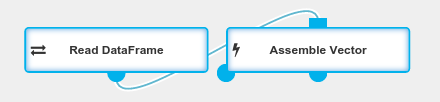
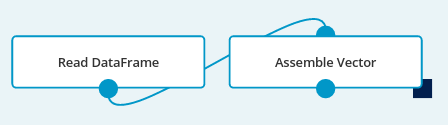
SHR-1005 SHR-1015 Update content to reflect 1.4.0
Both images and text were changed for wine properties example.

Changed region(s): [[0.0, 0.0882, 0.975, 0.8824], [0.5909, 0.4412, 0.8568, 0.5588]]

diff --git a/docs/_casestudies/wine_properties.md b/docs/_casestudies/wine_properties.md
@@ -10,37 +10,56 @@ description: Wine Properties
 
 **Dataset size**: 1,599 rows; 12 columns (11 numerical columns, 1 integer column).
 
-**Datasets description**: The dataset contains a description of a set of wines. Each wine is described by a set of 11 features based on physicochemical tests like density or pH. Additionally to that, each type of wine has a score that describes the wine’s quality. The score is based on sensory data (median of at least 3 evaluations made by wine experts). Each expert graded the wine quality between 0 (very bad) and 10 (excellent).
+**Datasets description**: The dataset contains a description of a set of wines.
+Each wine is described by a set of 11 features based on physicochemical tests like density or pH.
+Additionally to that, each type of wine has a score that describes the wine’s quality.
+The score is based on sensory data (median of at least 3 evaluations made by wine experts).
+Each expert graded the wine quality between 0 (very bad) and 10 (excellent).
 
-**Business purpose**: finding important features of wines that define wine quality as perceived by tasters.
+**Business purpose**: Finding important features of wines that define wine quality as perceived by tasters.
 
 **Data set credits**: Paulo Cortez, University of Minho, Guimarães, Portugal, <http://www3.dsi.uminho.pt/pcortez>
 A. Cerdeira, F. Almeida, T. Matos and J. Reis, Viticulture Commission of the Vinho Verde Region(CVRVV), Porto, Portugal 2009.
 Lichman, M. (2013).
 
 
-UCI Machine Learning Repository <http://archive.ics.uci.edu/ml>. Irvine, CA: University of California, School of Information and Computer Science.
+UCI Machine Learning Repository <http://archive.ics.uci.edu/ml>.
+Irvine, CA: University of California, School of Information and Computer Science.
 
 ## Step-by-step Workflow Creation
 
 ### Reading the Data
 
-The data is provided in the form of a 12-column, semicolon-separated CSV-like file. The first row consists of column names. To work with the dataset, it has to be loaded into Seahorse. This can be done by [Read DataFrame](../operations/read_dataframe.html) operation. Let’s place it on the canvas. To load the data, besides providing the correct path to the file, it is necessary to change the separator parameter to semicolon.
+The data is provided in the form of a 12-column, semicolon-separated CSV-like file.
+The first row consists of column names.
+To work with the dataset, it has to be loaded into Seahorse.
+This can be done by [Read DataFrame](../operations/read_dataframe.html) operation.
+Let’s place it on the canvas and create a new Data Source.
+To load the data, besides providing the correct path to the file,
+it is necessary to set the separator parameter to semicolon.
 
 <img class="bordered-image centered-image img-responsive spacer" src="../img/usecases/wine_properties/image_0.png">
 
-After setting Read DataFrame’s parameters to the correct values, the operation is ready to execute. When the execution ends, a report of the operation will be available. Let’s click on the output port to see it.
+After setting Read DataFrame’s parameters to the correct values, the operation is ready to execute.
+When the execution ends, a report of the operation will be available.
+Let’s click on the output port to see it.
 
 <img class="centered-image img-responsive spacer" src="../img/usecases/wine_properties/image_1.png">
 
-Now, we can explore the data a bit. The report included 20 sample rows.  As we can see, each wine is described by a set of 11 numerical features and an ordinal score based on sensory data (column **quality**) that describes wine’s quality.
+Now, we can explore the data a bit.
+The report included 20 sample rows.
+As we can see, each wine is described by a set of 11 numerical features
+and an ordinal score based on sensory data (column **quality**) that describes wine’s quality.
 
-Moreover, you can see distributions of values for each column. Click on a column’s header to see the distribution diagram, minimum value, maximum value, mean value and how many values are missing.
+Moreover, you can see distributions of values for each column.
+Click on an icon in column’s header to see
+the distribution diagram, minimum value, maximum value, mean value and how many values are missing.
 
 <img class="centered-image img-responsive spacer" src="../img/usecases/wine_properties/image_2.png">
 
 
-After some exploration we can see that no value is missing. Minimum values, mean values and maximum values summarizes the table below:
+After some exploration we can see that no value is missing.
+Minimum values, mean values and maximum values summarizes the table below:
 
 <table>
   <thead>
@@ -141,33 +160,81 @@ After some exploration we can see that no value is missing. Minimum values, mean
 
 ### The Objective
 
-Now, we will try to investigate which features of wine have significant impact on the quality. There are many different ways of achieving this. One of the possibilities is to fit a regression model to the data. For example, we could use a [Linear Regression](../operations/linear_regression.html) or a [Random Forest Regression](../operations/random_forest_regression.html). The first one exposes features weights that signify whether the feature has a positive or a negative impact (and how big the impact is) on the overall estimated value. Random Forest Regression exposes only importances of features, that help to determine whether the impact on the estimated value is high or low. Although, while it is not necessarily a rule, in many practical applications Random Forest Regression outperforms Linear Regression. Because of that we’ll choose Random Forest Regression.
+Now, we will try to investigate which features of wine have significant impact on the quality.
+There are many different ways of achieving this.
+One of the possibilities is to fit a regression model to the data.
+For example, we could use a [Linear Regression](../operations/linear_regression.html)
+or a [Random Forest Regression](../operations/random_forest_regression.html).
+The first one exposes features weights that signify
+whether the feature has a positive or a negative impact (and how big the impact is)
+on the overall estimated value.
+Random Forest Regression exposes only importances of features,
+that help to determine whether the impact on the estimated value is high or low.
+Although, while it is not necessarily a rule,
+in many practical applications Random Forest Regression outperforms Linear Regression.
+Because of that we’ll choose Random Forest Regression.
 
 ### Preparation and Feature Comparison Prerequisites
 
-Before we can train the Random Forest Regression to find out feature importance, we need to prepare the data. Some of Seahorse’s algorithms operate on columns that contain a vector of features (instead of a set of columns with one value each). The regression is one of them and before we use it, we need to combine 11 feature columns to one column that contains a vector of the features. We’ll do this using an [Assemble Vector](../operations/assemble_vector.html) operation.
+Before we can train the Random Forest Regression to find out feature importance,
+we need to prepare the data.
+Some of Seahorse’s algorithms operate on columns that contain a vector of features
+(instead of a set of columns with one value each).
+The regression is one of them and before we use it,
+we need to combine 11 feature columns to one column that contains a vector of the features.
+We’ll do this using an [Assemble Vector](../operations/assemble_vector.html) operation.
 
 Let’s put the Assemble Vector operation on the canvas and connect it as follows:
 
 <img class="centered-image img-responsive spacer" src="../img/usecases/wine_properties/image_3.png">
 
-The next step is to set parameters to the two operations. In the Assemble Vector operation we have to select the columns to be grouped and the output column’s name. We want to select wine features excluding quality, that is columns from 0 to 10. Let’s call the vectorized output column "features".
+The next step is to set parameters to the two operations.
+In the Assemble Vector operation we have
+to select the columns to be groupedand the output column’s name.
+We want to select wine features excluding quality, that is columns from 0 to 10.
+Let’s call the vectorized output column "features".
 
 <img class="bordered-image centered-image img-responsive spacer"  src="../img/usecases/wine_properties/image_4.png">
 
 ### Parameters of Training Process
 
-The Assemble Vector’s output [DataFrame](../classes/dataframe.html) has a format that the regression can work on - we are now ready to start playing with the regression. The regression allows to predict one column’s value basing on other columns’ values. In our case, you will want to create a Random Forest Regression model that predicts the quality of wine based on the value of **features** column. Then, we will take a look at the model to see how important each feature is.
+The Assemble Vector’s output [DataFrame](../classes/dataframe.html)
+has a format that the regression can work on - we are now ready to start playing with the regression.
+The regression allows to predict one column’s value basing on other columns’ values.
+In our case, you will want to create a Random Forest Regression model
+that predicts the quality of wine based on the value of **features** column.
+Then, we will take a look at the model to see how important each feature is.
 
-To create a model, we have to use [Fit](../operations/fit.html) operation. Random Forest Regression has many parameters that affect its behavior. It is not a trivial task to find the best values of parameters. Usually, it is done experimentally. Advanced knowledge about the Random Forest Regression algorithm is required. To overcome this issue, we’ll use a [Grid Search](../operations/grid_search.html) operation and let another algorithm find the best values for us. To use the Grid Search operation we define value sets for each parameter of a model. The Grid Search will fit as many models as there are combinations of the parameters. Later, it evaluates prediction correctness (using an [Evaluator](../classes/evaluator.html)) of all models. Finally, we end up with a report that summarizes Grid Search results and shows the best combination of parameters.
+To create a model, we have to use [Fit](../operations/fit.html) operation.
+Random Forest Regression has many parameters that affect its behavior.
+It is not a trivial task to find the best values of parameters. Usually, it is done experimentally.
+Advanced knowledge about the Random Forest Regression algorithm is required.
+To overcome this issue, we’ll use a [Grid Search](../operations/grid_search.html) operation
+and let another algorithm find the best values for us.
+To use the Grid Search operation we define value sets for each parameter of a model.
+The Grid Search will fit as many models as there are combinations of the parameters.
+Later, it evaluates prediction correctness
+(using an [Evaluator](../classes/evaluator.html)) of all models.
+Finally, we end up with
+a report that summarizes Grid Search results and shows the best combination of parameters.
 
-Place the Grid Search operation on the canvas. It has 3 inputs. To the first one, we’ll connect the first output port from the Assemble Vector operation, as we want to feed the Grid Search with the DataFrame that the Assemble Vector operation produces. To the second port we’ll connect the Random Forest Regression - let’s place it on the canvas. To the last port we need to connect an Evaluator - place a [Regression Evaluator](../operations/regression_evaluator.html) on the canvas and connect it with the Grid Search.
+Place the Grid Search operation on the canvas.
+It has 3 inputs.
+To the middle one, we’ll connect the first output port from the Assemble Vector operation,
+as we want to feed the Grid Search with the DataFrame that the Assemble Vector operation produces.
+To the left-hand port we’ll connect the Random Forest Regression - let’s place it on the canvas.
+To the right-hand port we need to connect an Evaluator - place
+a [Regression Evaluator](../operations/regression_evaluator.html) on the canvas
+and connect it with the Grid Search.
 
-A Regression Evaluator is capable of evaluating predictions made by a Regression. The evaluation is done using a certain metric. We’ll use RMSE (Root-Mean-Square Error), as it is the simplest to interpret.
+A Regression Evaluator is capable of evaluating predictions made by a Regression.
+The evaluation is done using a certain metric.
+We’ll use RMSE (Root-Mean-Square Error), as it is the simplest to interpret.
 
 <img class="centered-image img-responsive spacer"  src="../img/usecases/wine_properties/image_5.png">
 
-Grid Search operation’s parameters combine the parameters from its input Regressor and Evaluator. In the parameters panel, scroll down to the parameters of the input estimator and set their values to:
+Grid Search operation’s parameters combine the parameters from its input Regressor and Evaluator.
+In the parameters panel, set values of parameters of the input estimator to:
 
 * `max depth`: `10, 20, 30`,
 
@@ -187,24 +254,46 @@ Grid Search operation’s parameters combine the parameters from its input Regre
 </table>
 
 
-Using these value sets, we define 27 models (3 x 3 x 3) that need to be trained and then evaluated. The last thing we need to set in the Grid Search operation are the `features column` and the `label column`. The former specifies which column contains the predictors (i.e. the features on which our prediction will be based on). We’ll set this parameter to `features`. The latter specifies the column containing true values of our predicted variable, for training purposes. We’ll set this to `quality`.
+Using these value sets, we define 27 models (3 x 3 x 3) that need to be trained and then evaluated.
+The last thing we need to set in the Grid Search operation
+are the `features column` and the `label column`.
+The former specifies which column contains the predictors
+(i.e. the features on which our prediction will be based on).
+We’ll set this parameter to `features`.
+The latter specifies the column
+containing true values of our predicted variable, for training purposes.
+We’ll set this to `quality`.
 
-Finally, leave other parameters with the default values and execute the workflow. As we mentioned, 27 models have to be trained and evaluated (twice, because of cross-validation) so the execution can take a couple of minutes. Afterwards, we can read parameters that got the best score. They can be read from Grid Search’s report.
+Finally, leave other parameters with the default values and execute the workflow.
+As we mentioned, 27 models have to be trained and evaluated (twice, because of cross-validation)
+so the execution can take a couple of minutes.
+Afterwards, we can read parameters that got the best score.
+They can be read from Grid Search’s report.
 <img class="centered-image img-responsive spacer"  src="../img/usecases/wine_properties/image_6.png">
 
 In our case the best parameters found are:
 
-* `max depth`: `20`,
-
 * `max bins`: `40`,
+
+* `max depth`: `30`,
 
 * `num trees`: `100`.
 
-As we can see, none of the parameters (except number of trees) lays on the edge of the grid. We could increase number of trees because, generally for the Random Forest Regression, the more trees, the more accurate the results of regression. However, differences between 50 and 100 trees are rather small and further increase of the number of trees won’t have a significant impact on the quality. Moreover, computation time grows with the number of trees. We are going to use 100 trees in the Random Forest Regression as it’s a good compromise between accuracy and execution time.
+As we can see, none of the parameters (except number of trees) lays on the edge of the grid.
+We could increase number of trees because, generally for the Random Forest Regression,
+the more trees, the more accurate the results of regression.
+However, differences between 50 and 100 trees are rather small
+and further increase of the number of trees won’t have a significant impact on the quality.
+Moreover, computation time grows with the number of trees.
+We are going to use 100 trees in the Random Forest Regression
+as it’s a good compromise between accuracy and execution time.
 
 ### Training
 
-Since we now know the best parameter values, we can use the Fit operation to train a Random Forest Regression model. Edit Fit’s parameters according to the report generated by the Grid Search, i.e. copy the best parameter values to the Fit operation. Then, select `features` as the `features column` and `quality` as the `label column`. Finally, execute the Fit operation.
+Since we now know the best parameter values
+we can use the Fit operation to train a Random Forest Regression model.
+Edit Fit’s parameters according to the report generated by the Grid Search,
+i.e. copy the best parameter values to the Fit operation. Then, select `features` as the `features column` and `quality` as the `label column`. Finally, execute the Fit operation.
 
 <img class="centered-image img-responsive spacer"  src="../img/usecases/wine_properties/image_7.png">
 
@@ -268,6 +357,20 @@ Fit returns a trained model. In the model’s report we can inspect the feature 
 
 ## Conclusion
 
-We’ve researched how important each feature of wine is for estimating its perceived quality. It turned out, that the two most important features are alcohol and sulphates concentration.
+We’ve researched how important each feature of wine is for estimating its perceived quality.
+It turned out, that the two most important features are alcohol and sulphates concentration.
 
-The trained model can be used to predict quality of wine. Wine grades were ordinal numbers, but the model generates real numbers. To convert real numbers to an ordinal number, we could round the prediction to the nearest ordinal number. If the prediction differs from the estimated value by no more than 0.5, then the rounded prediction will be the same number as the estimated value (it will be a correct prediction). If the difference is bigger than 0.5, but not bigger than 1.5, then the rounded prediction will be inaccurate by 1. Model’s RMSE is about 0.61. It means that the model’s predictions differ from the real values by no more than 0.61, on average. Thus, rounded predictions most likely will be inaccurate by 1. Even though the model turned out to be slightly inaccurate, it can be used to indicate whether the wine is good or bad, though, not so precisely.
+The trained model can be used to predict quality of wine.
+Wine grades were ordinal numbers, but the model generates real numbers.
+To convert real numbers to an ordinal number,
+we could round the prediction to the nearest ordinal number.
+If the prediction differs from the estimated value by no more than 0.5,
+then the rounded prediction will be the same number as the estimated value
+(it will be a correct prediction).
+If the difference is bigger than 0.5, but not bigger than 1.5,
+then the rounded prediction will be inaccurate by 1.
+Model’s RMSE is about 0.61. It means that the model’s predictions differ
+from the real values by no more than 0.61, on average.
+Thus, rounded predictions most likely will be inaccurate by 1.
+Even though the model turned out to be slightly inaccurate,
+it can be used to indicate whether the wine is good or bad, though, not so precisely.
